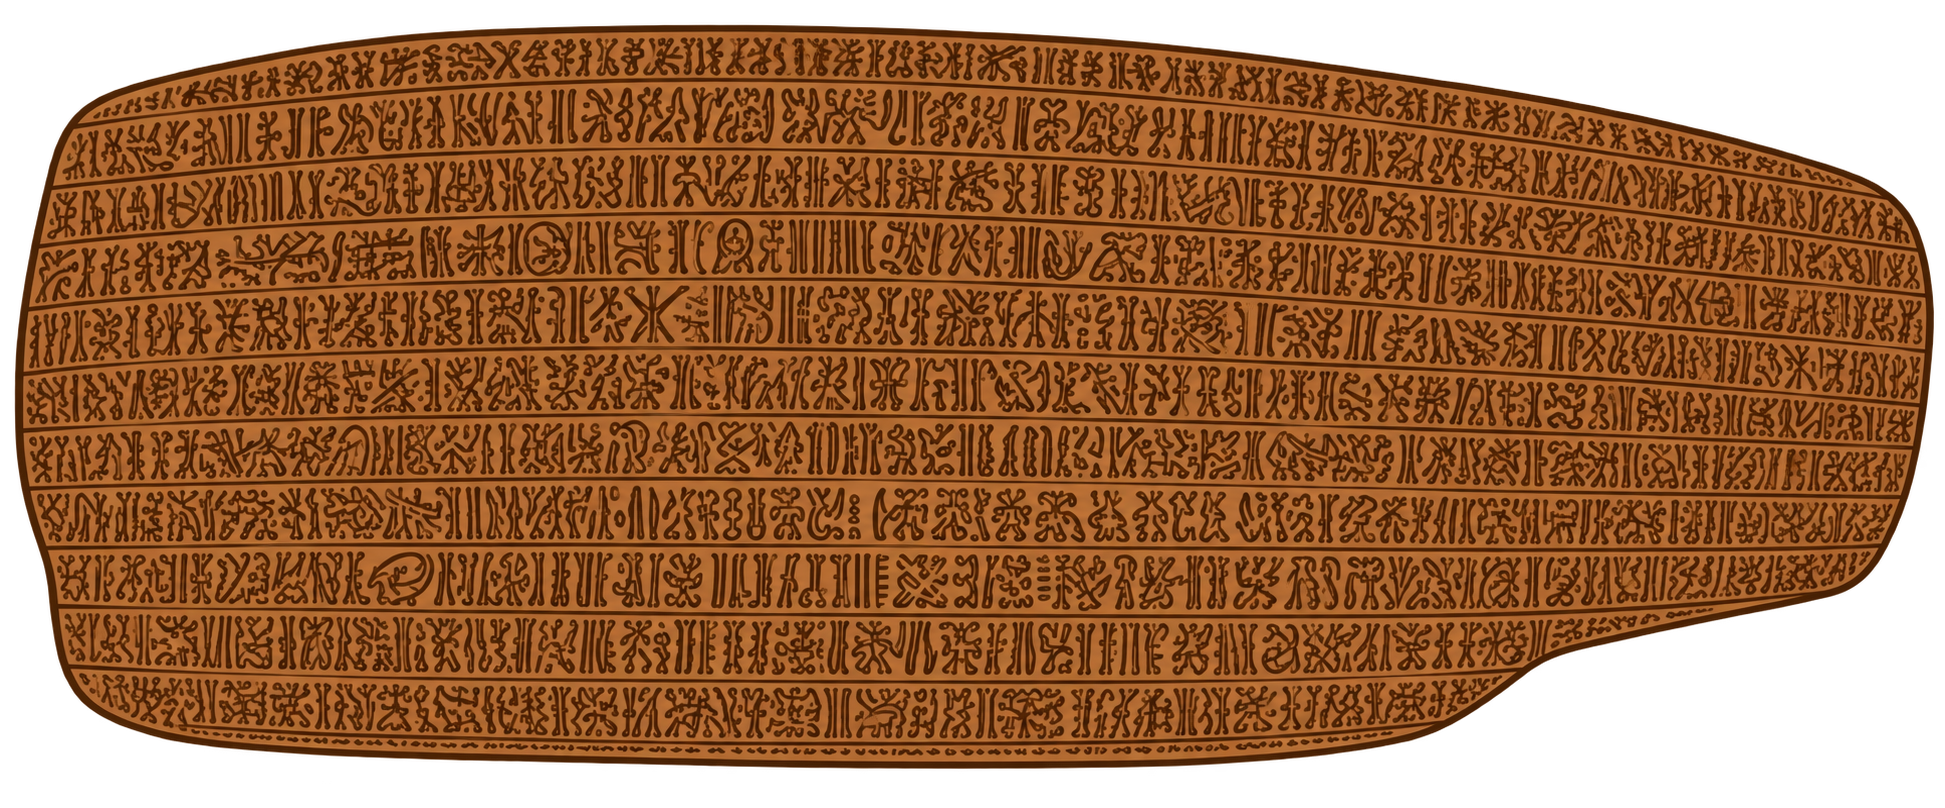
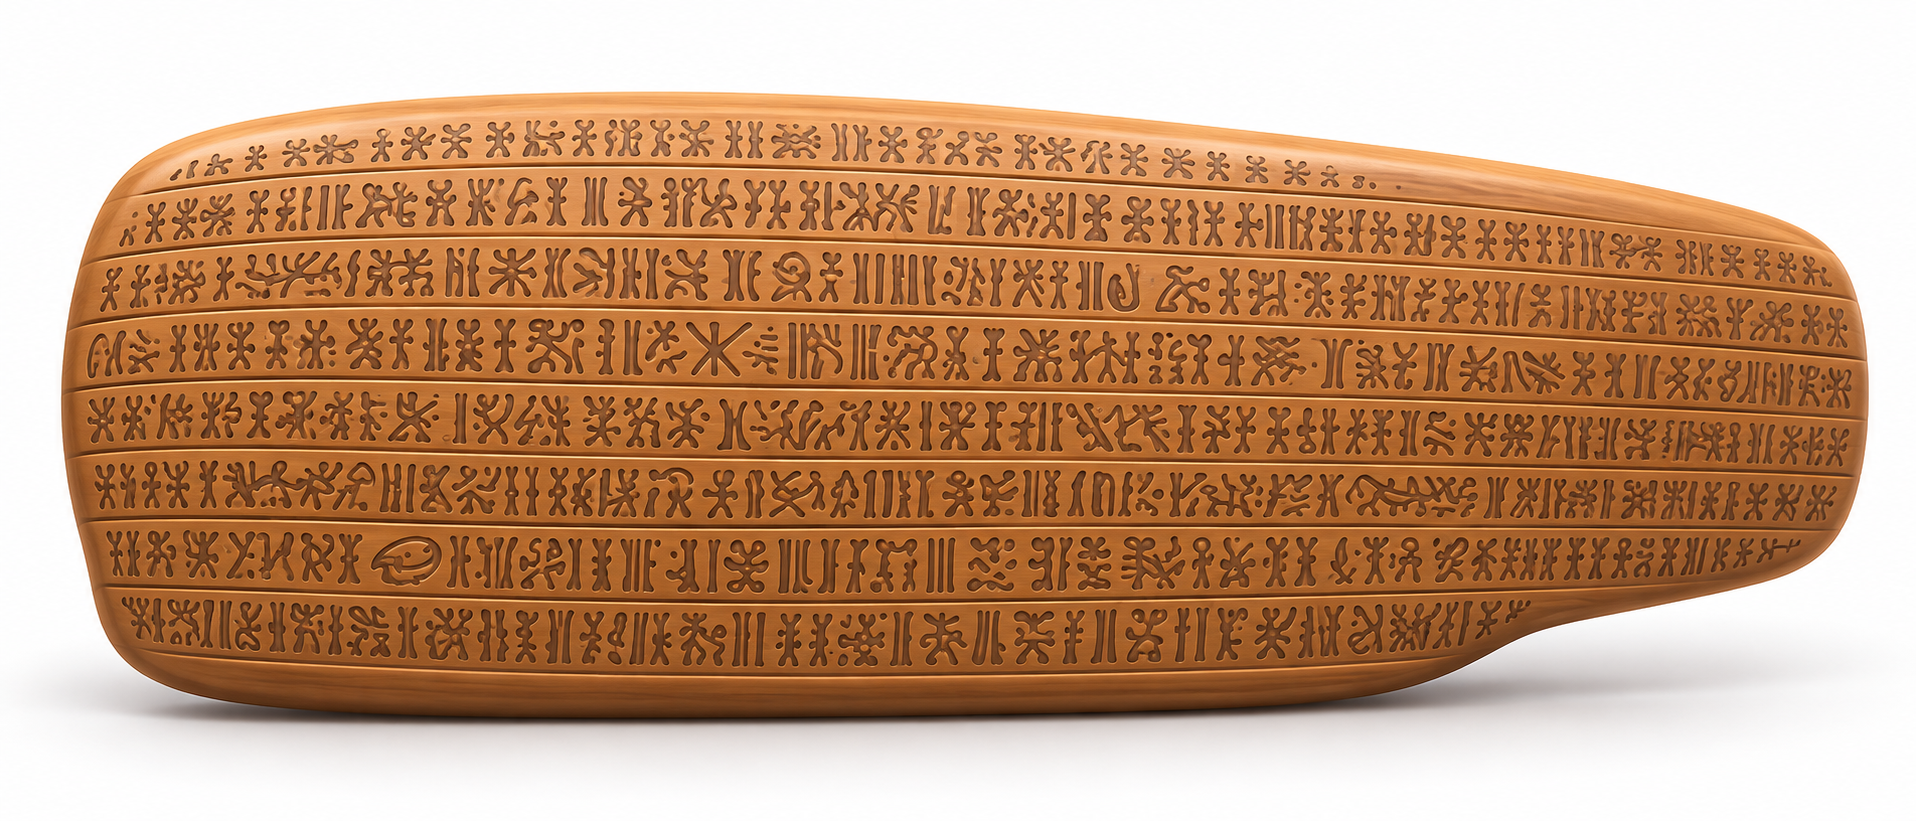
Replace Rongorongo body image

diff --git a/docs/article-cover-sources.md b/docs/article-cover-sources.md
@@ -40,4 +40,4 @@ Cover images are stored locally so article pages do not depend on third-party im
 | `ai-gpt-6-sol-luna.png` | GPT-6 Sol and Luna art card | OpenAI | OpenAI article artwork | [OpenAI announcement](https://openai.com/index/introducing-gpt-6-sol-and-luna/) |
 | `ai-gpt-6-1-sol.jpg` | GPT-6.1 Sol launch presentation | Asia Today | Image from news article | [Asia Today article](https://en.asiatoday.co.kr/view.php?key=20260930001304543) |
 | `ai-claude-opus-5-5.jpg` | Claude Opus 5.5 launch artwork | Anthropic | Anthropic announcement artwork | [Anthropic announcement](https://www.anthropic.com/claude-opus-5-5) |
-The Rongorongo tablet image at `public/images/articles/rongorongo-tablet.png` was supplied locally by the site owner.
+The Rongorongo tablet body image at `public/images/articles/rongorongo-tablet.png` was replaced with the site owner-supplied `rongorongo.png`.
